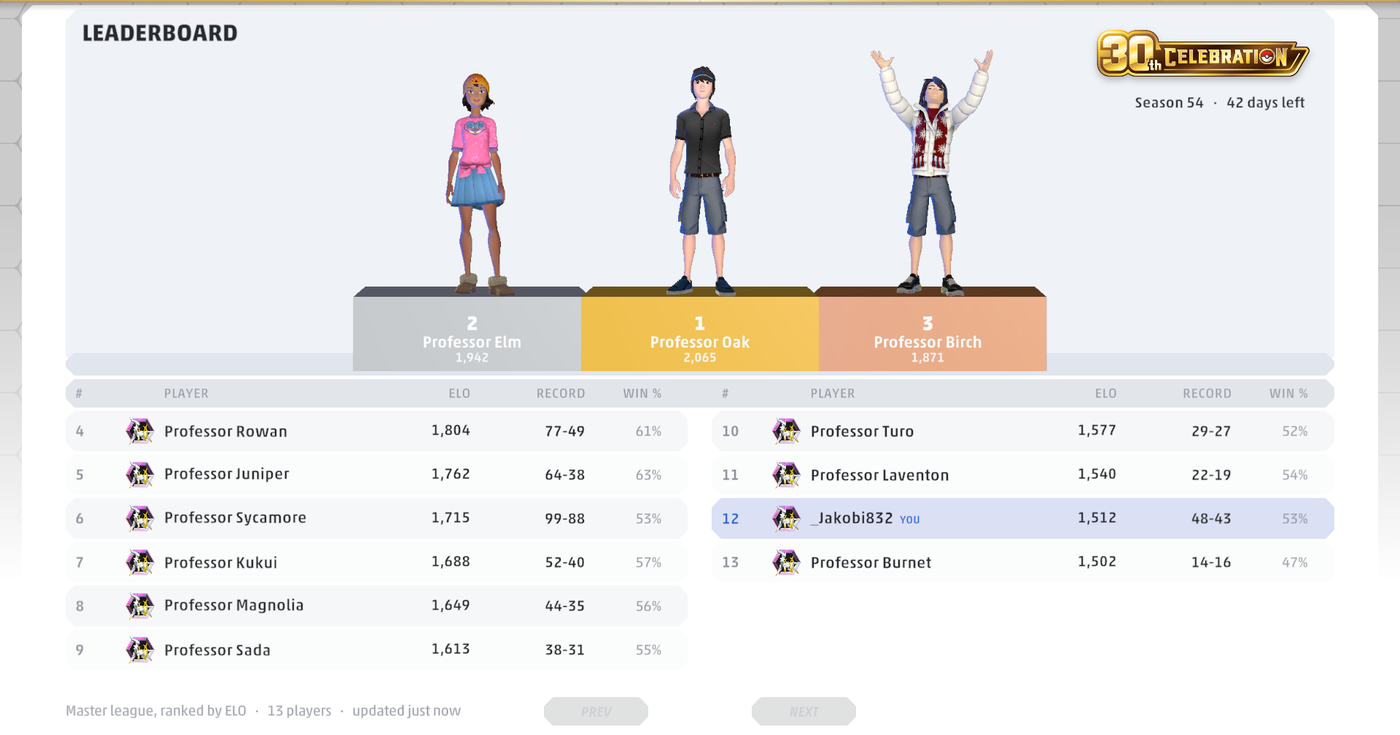
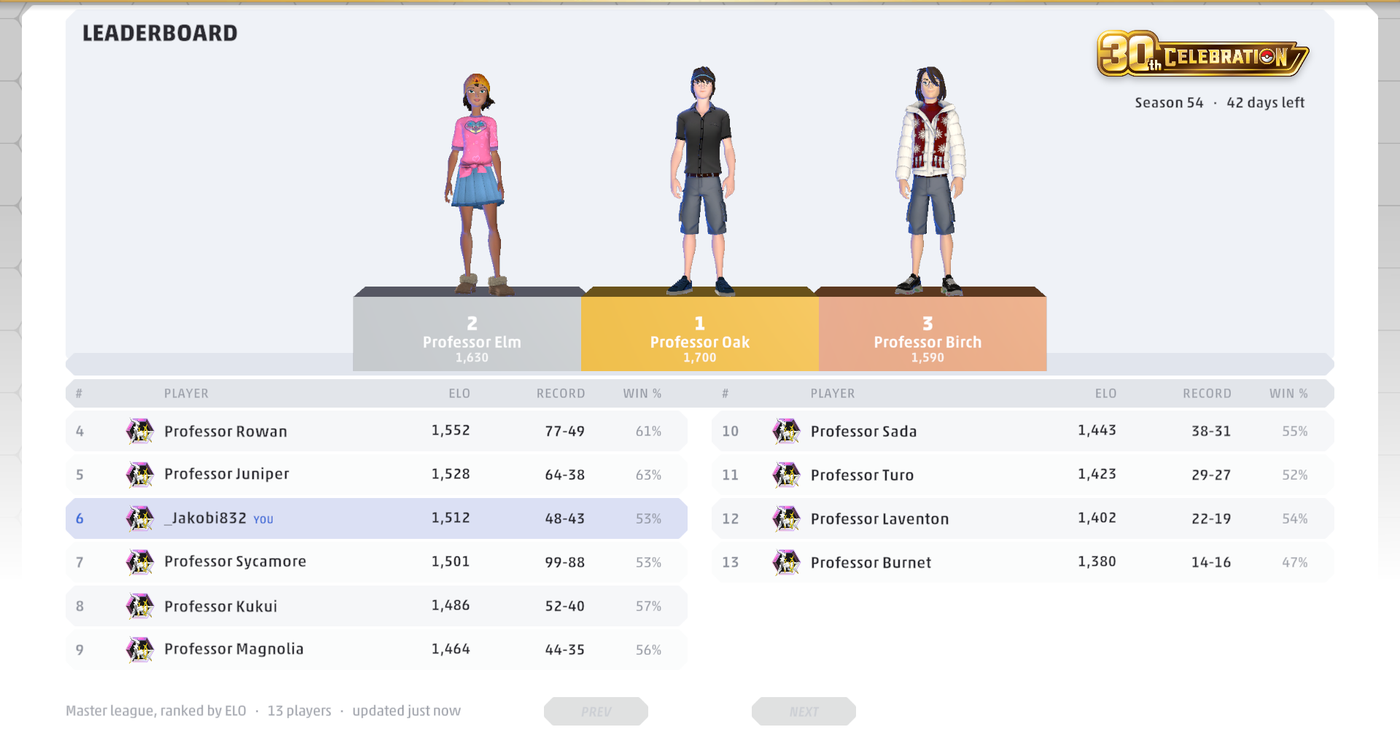
Worker: a new season starts with the sample players (deployed)
The Professor rows (p-demo*) existed for one season only, so every reset
would open on an empty board. When a season is first registered, the
sample rows are copied into it from the season before; real players' rows
never are. New test covers both halves. 19/19 pass. Deployed as version
987ea527. Sample ELOs rescaled in D1 to top out at 1700.

diff --git a/leaderboard/test.js b/leaderboard/test.js
@@ -316,3 +316,29 @@ test('cleanOutfit refuses anything it would not want to hand to every client', (
   const extra = cleanOutfit('{"look":2,"items":{"1":"a"},"evil":"drop table"}');
   assert.deepEqual(JSON.parse(extra), { look: 2, items: { '1': 'a' } });
 });
+
+test('a new season starts with the sample players and none of the real ones', async () => {
+  const e = env(), c = clock();
+  // season 54: a real player and a sample player
+  assert.equal((await post(e, c, base)).status, 200);
+  await e.DB.prepare("INSERT INTO standing (season_id, player_id, display_name, exp, wins, losses, " +
+    "season_matches, consecutive_wins, elo, master, snapshots, first_seen, last_seen, flags) " +
+    "VALUES (54, 'p-demo0001', 'Professor Oak', 900, 30, 10, 40, 0, 1700, 1, 3, 1, 1, '[]')").run();
+
+  // the first submission of season 55 registers it
+  c.t += 3600;
+  const s55 = { ...base, playerId: 'player-bbbbbbbb', displayName: 'New', seasonId: 55,
+                exp: 10, wins: 1, losses: 0, seasonMatches: 1, localMatches: 1, elo: 1400,
+                endDate: '2027-01-01T17:00:00Z' };
+  assert.equal((await post(e, c, s55)).status, 200);
+
+  const board = await get(e, c, '/v1/leaderboard?season=55');
+  const names = board.body.players.map(p => p.displayName).sort();
+  assert.deepEqual(names, ['New', 'Professor Oak']);          // Jakobi's season-54 row did not carry over
+  const oak = board.body.players.find(p => p.displayName === 'Professor Oak');
+  assert.equal(oak.elo, 1700);
+
+  // and season 54 is untouched
+  const old = await get(e, c, '/v1/leaderboard?season=54');
+  assert.deepEqual(old.body.players.map(p => p.displayName).sort(), ['Jakobi', 'Professor Oak']);
+});

diff --git a/leaderboard/worker.js b/leaderboard/worker.js
@@ -118,6 +118,18 @@ async function postSnapshot(request, env, now) {
             s.consecutiveWins, s.elo, s.master, snapshots, firstSeen, t, JSON.stringify(unionFlags),
             s.outfit),
   ];
+  // A new season starts with the sample players on it, copied from the season before. The
+  // Professor rows (player ids p-demo*) are placeholders so the board is never empty; without
+  // this they existed for one season only and every reset opened on a blank board. Real players'
+  // rows are never copied - a reset is a reset.
+  if (latestId != null && s.seasonId > latestId) {
+    writes.push(env.DB.prepare(
+      'INSERT OR IGNORE INTO standing (season_id, player_id, display_name, exp, wins, losses, ' +
+      'season_matches, consecutive_wins, elo, master, snapshots, first_seen, last_seen, flags, outfit) ' +
+      "SELECT ?, player_id, display_name, exp, wins, losses, season_matches, consecutive_wins, elo, " +
+      "master, snapshots, ?, ?, '[]', outfit FROM standing WHERE season_id = ? AND player_id LIKE 'p-demo%'")
+      .bind(s.seasonId, t, t, latestId));
+  }
   if (s.endDate) {
     writes.push(env.DB.prepare(
       'INSERT INTO season_vote (season_id, player_id, end_date) VALUES (?, ?, ?) ' +
